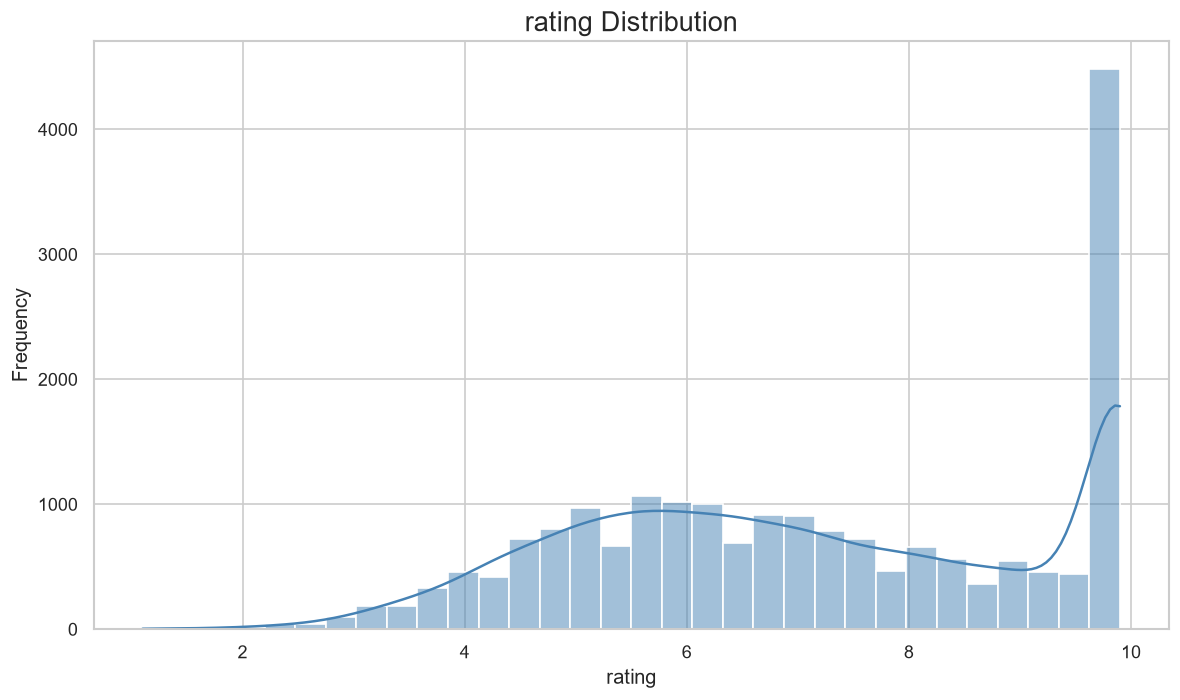
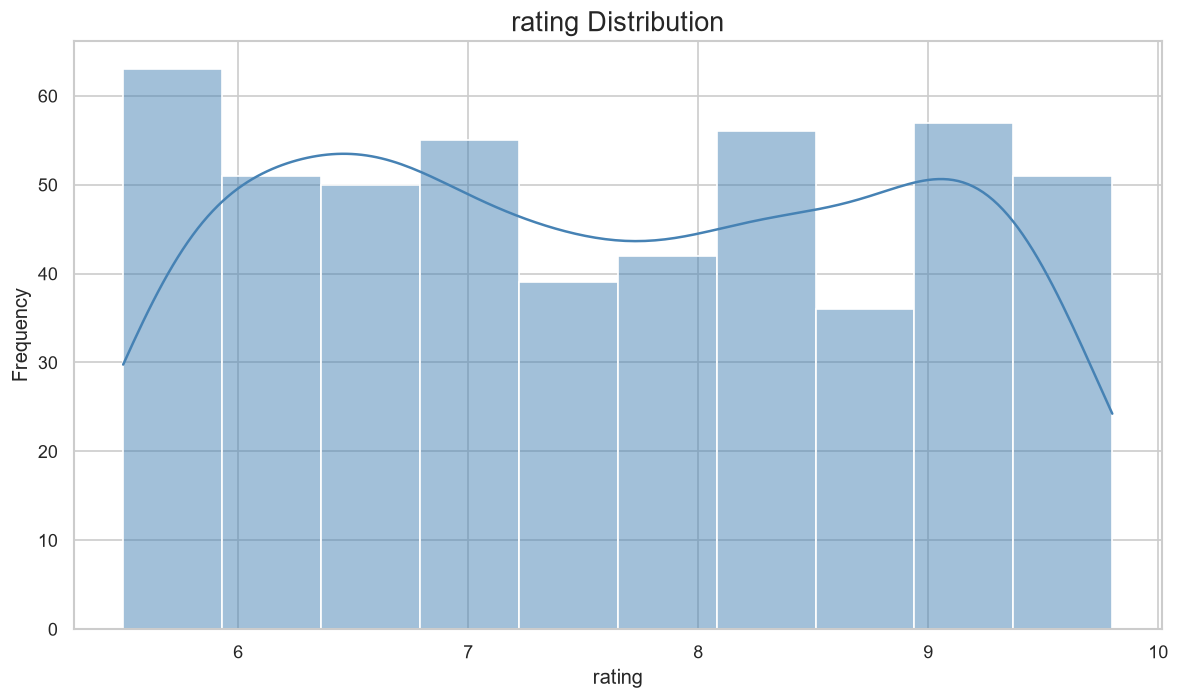
updated charts decode

diff --git a/frontend/src/components/Charts.css b/frontend/src/components/Charts.css
@@ -263,3 +263,113 @@ RESPONSIVE
 }
 
 }
+
+/* =====================================================
+IMAGE MODAL
+===================================================== */
+
+.image-modal{
+
+    position:fixed;
+
+    inset:0;
+
+    background:rgba(15,23,42,.85);
+
+    display:flex;
+
+    justify-content:center;
+
+    align-items:center;
+
+    z-index:9999;
+
+    animation:fadeIn .25s ease;
+
+}
+
+.image-modal-content{
+
+    position:relative;
+
+    width:90%;
+
+    max-width:1200px;
+
+    max-height:90vh;
+
+    background:white;
+
+    border-radius:20px;
+
+    padding:25px;
+
+    overflow:auto;
+
+    box-shadow:0 20px 50px rgba(0,0,0,.35);
+
+}
+
+.modal-image{
+
+    width:100%;
+
+    height:auto;
+
+    display:block;
+
+    border-radius:12px;
+
+}
+
+.close-btn{
+
+    position:absolute;
+
+    top:15px;
+
+    right:15px;
+
+    width:45px;
+
+    height:45px;
+
+    border:none;
+
+    border-radius:50%;
+
+    background:#ef4444;
+
+    color:white;
+
+    font-size:22px;
+
+    cursor:pointer;
+
+    transition:.3s;
+
+}
+
+.close-btn:hover{
+
+    transform:scale(1.08);
+
+    background:#dc2626;
+
+}
+
+@keyframes fadeIn{
+
+    from{
+
+        opacity:0;
+
+    }
+
+    to{
+
+        opacity:1;
+
+    }
+
+}
